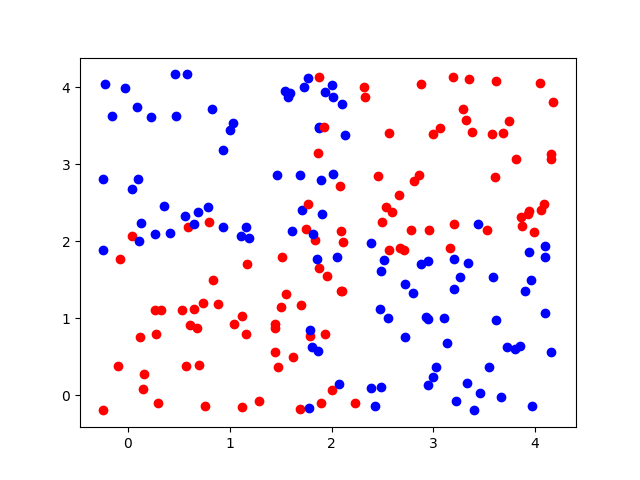
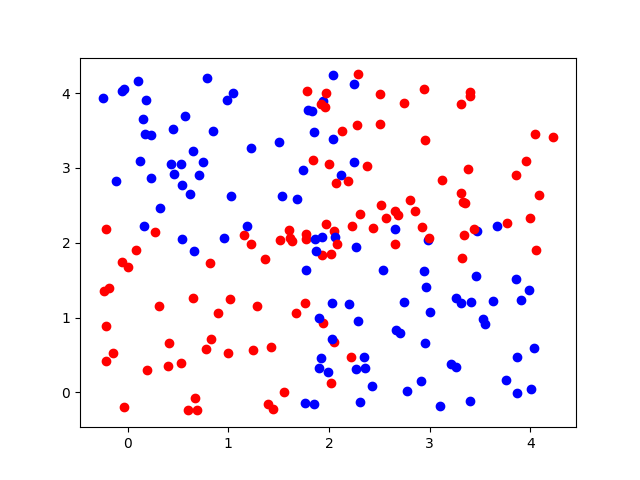
004-1 Complete

diff --git a/004/004-1.py b/004/004-1.py
@@ -3,31 +3,57 @@ from sklearn.tree import DecisionTreeClassifier
 from sklearn.ensemble import RandomForestClassifier
 from sklearn.model_selection import train_test_split
 from sklearn import metrics
-
-import pandas
+import numpy as np
+import pandas as pd
 from generate_data import generate_graph
 
 def correct_data(data, labels): # data = [[(1,1),(1,1.3),...], [(3,1),(3,1.3),...],...] labels = [1,0...]
-    data_2 = list(zip(data))
-    data_3 = np.array(data_2)
-    data_4 = pd.from_array(data_3)
-    return x, y
+    data_2 = []
+    for group in data:
+        for element in group:
+            data_2.append(element)
+    corrected_data = np.array(data_2)
+    labels_2 = []
+    for i, label in enumerate(labels):
+        for _ in range(len(data[i])):
+            labels_2.append(label)
+    corrected_labels = np.array(labels_2)
+    return corrected_data, corrected_labels
 
-def KNN(x,y,k,len_dataframe): # k is num neighbors
-    training_x, testing_x, training_y, testing_y = train_test_split(X, y, test_size=0.3, random_state=1)
+def KNN_f(x,y,k): # k is num neighbors
+    training_x, testing_x, training_y, testing_y = train_test_split(x, y, test_size=0.5, random_state=1)
     KNN = KNeighborsClassifier(n_neighbors = k)
     KNN.fit(training_x, training_y)
     return KNN.score(testing_x, testing_y)
 
-#def DTC(x,y,k): # k is min size split
- #   correct = 0
-  #  for i in range():
+def DTC_f(x,y,k): # k is min size split
+    training_x, testing_x, training_y, testing_y = train_test_split(x, y, test_size=0.5, random_state=1)
+    DTC = DecisionTreeClassifier(min_samples_split = k)
+    DTC.fit(training_x, training_y)
+    return DTC.score(testing_x, testing_y)
 
-#def RFC(x,y,k): # k is num trees
+def RFC_f(x,y,k): # k is num trees
+    training_x, testing_x, training_y, testing_y = train_test_split(x, y, test_size=0.5, random_state=1)
+    RFC = RandomForestClassifier(n_estimators = k)
+    RFC.fit(training_x, training_y)
+    return RFC.score(testing_x, testing_y)
 
 oneone = generate_graph((1,1), 1.25, 50)
+uno = [[oneone[0][i], oneone[1][i]] for i in range(len(oneone[0]))]
 onethree = generate_graph((1,3), 1.25, 50)
+dos = [[onethree[0][i], onethree[1][i]] for i in range(len(onethree[0]))]
 threeone = generate_graph((3,1), 1.25, 50)
+tres = [[threeone[0][i], threeone[1][i]] for i in range(len(threeone[0]))]
 threethree = generate_graph((3,3), 1.25, 50)
+quatro = [[threethree[0][i], threethree[1][i]] for i in range(len(threethree[0]))]
 
-corrected_data = correct_data([oneone, onethree, threeone, threethree], [1,0,1,0])
+x, y = correct_data([uno, dos, tres, quatro], [1,0,1,0])
+
+import matplotlib.pyplot as plt
+
+plt.plot(list(range(1,100)), [KNN_f(x,y,k) for k in range(1,100)])
+plt.plot(list(range(2,100)), [DTC_f(x,y,k) for k in range(2,100)])
+plt.plot(list(range(1,100)), [RFC_f(x,y,k) for k in range(1,100)])
+plt.legend(['KNN', 'DTC', 'RFC'])
+plt.axis([1, 100, 0, 1])
+plt.savefig('004-1')

diff --git a/004/generate_data.py b/004/generate_data.py
@@ -6,16 +6,16 @@ def generate_graph(center, deviation, num_of_points): # (1,3), 3, 50
     ys = [center[1] + random.randint(-deviation * 100, deviation * 100) / 100 for _ in range(num_of_points)]
     return xs, ys
 
-import matplotlib.pyplot as plt
+#import matplotlib.pyplot as plt
 
-oneone = generate_graph((1,1), 1.25, 50)
-onethree = generate_graph((1,3), 1.25, 50)
-threeone = generate_graph((3,1), 1.25, 50)
-threethree = generate_graph((3,3), 1.25, 50)
+#oneone = generate_graph((1,1), 1.25, 50)
+#onethree = generate_graph((1,3), 1.25, 50)
+#threeone = generate_graph((3,1), 1.25, 50)
+#threethree = generate_graph((3,3), 1.25, 50)
 
-plt.scatter(oneone[0], oneone[1], color='red')
-plt.scatter(onethree[0], onethree[1], color='blue')
-plt.scatter(threeone[0], threeone[1], color='blue')
-plt.scatter(threethree[0], threethree[1], color='red')
+#plt.scatter(oneone[0], oneone[1], color='red')
+#plt.scatter(onethree[0], onethree[1], color='blue')
+#plt.scatter(threeone[0], threeone[1], color='blue')
+#plt.scatter(threethree[0], threethree[1], color='red')
 #plt.axis([-1, 5, -1, 5])
-plt.savefig('data.png')
+#plt.savefig('data.png')
